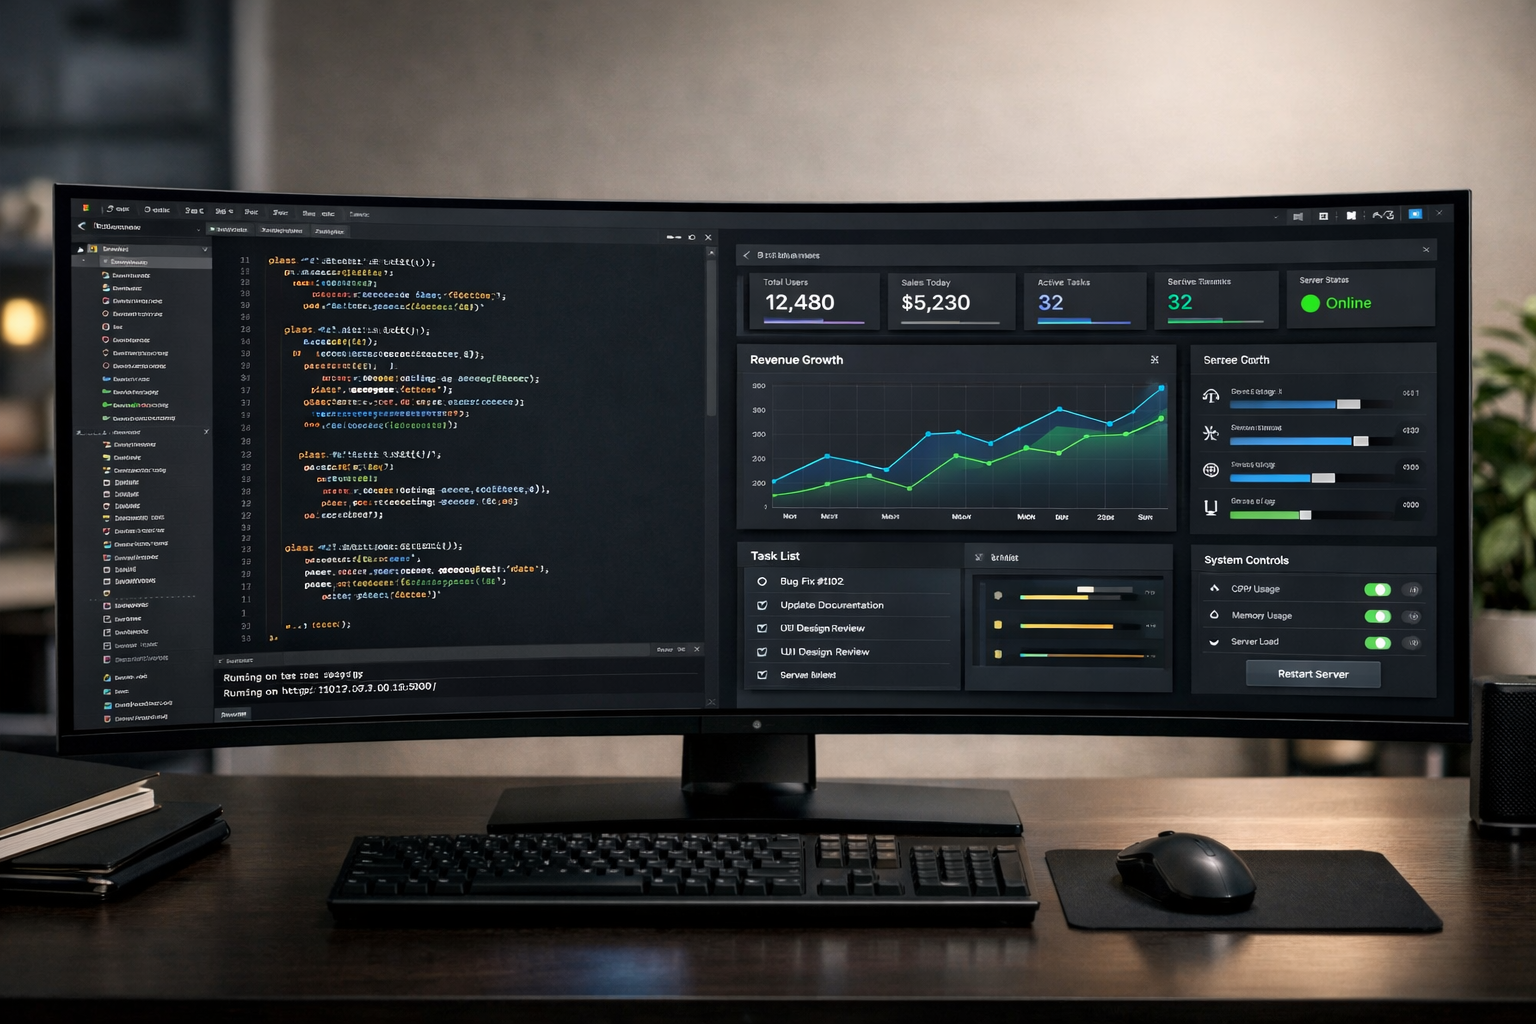
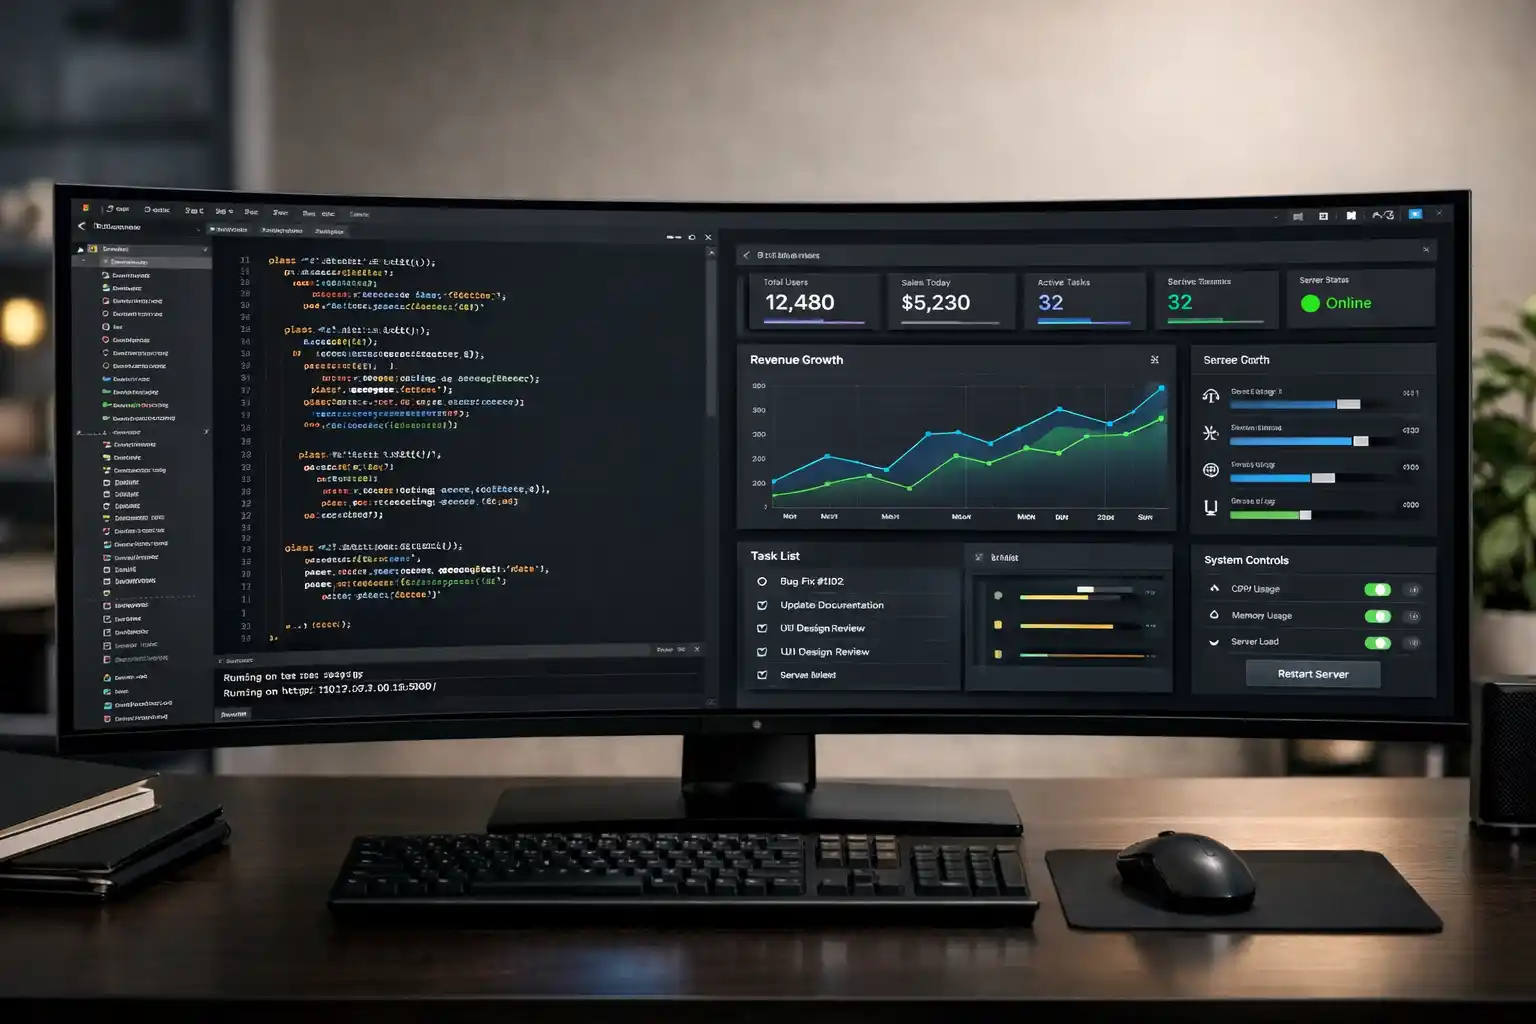
imagenes de clientes optimizadas a webp

Changed region(s): [[0.25, 0.375, 0.2812, 0.4062], [0.1875, 0.375, 0.2188, 0.4062]]

diff --git a/src/pages/Home.tsx b/src/pages/Home.tsx
@@ -46,9 +46,9 @@ const services = [
 ];
 
 const testimonials = [
-  { name: 'María García', role: 'Emprendedora', text: 'Excelente servicio, mi negocio creció enormemente. Totalmente conforme.', stars: 5, img: '/images/avatars/cliente2senito.png' },
-  { name: 'Dante Gallardo', role: 'CEO', text: 'Muy bueno con el trabajo! Totalmente conforme.', stars: 5, img: '/images/avatars/cliente3.png' },
-  { name: 'Carlos Ruiz', role: 'Director', text: 'Profesionales de primer nivel, los recomiendo.', stars: 5, img: '/images/avatars/cliente1.png' },
+  { name: 'María García', role: 'Emprendedora', text: 'Excelente servicio, mi negocio creció enormemente. Totalmente conforme.', stars: 5, img: '/images/avatars/cliente2senito.webp' },
+  { name: 'Dante Gallardo', role: 'CEO', text: 'Muy bueno con el trabajo! Totalmente conforme.', stars: 5, img: '/images/avatars/cliente3.webp' },
+  { name: 'Carlos Ruiz', role: 'Director', text: 'Profesionales de primer nivel, los recomiendo.', stars: 5, img: '/images/avatars/cliente1.webp' },
 ];
 
 /* ==========================================================================
